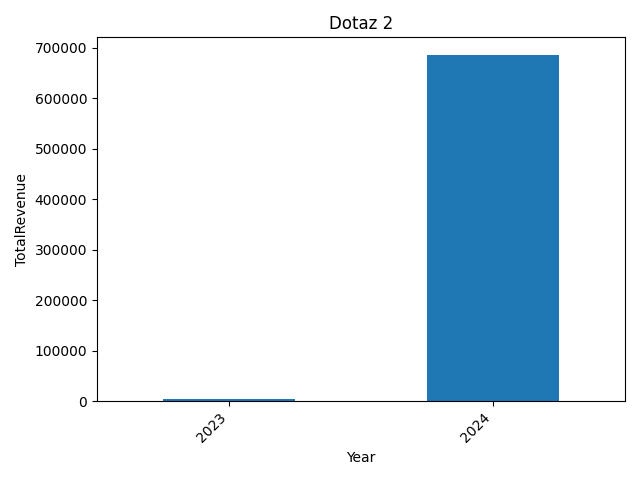
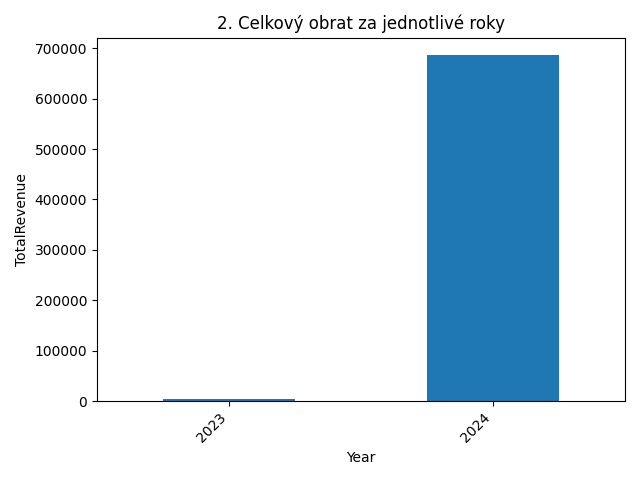
Cleaning

Changed region(s): [[0.1562, 0.0312, 0.9688, 0.0938], [0.0625, 0.2812, 0.125, 0.3438], [0.0625, 0.0938, 0.125, 0.125]]

diff --git a/python/graphs.py b/python/graphs.py
@@ -32,7 +32,14 @@ for i, query in enumerate(queries, start=1):
 
         # === GRAF ===
         plt.figure()
-        title = f"Dotaz {i}"
+        with open(f"olap_vystupy/dotaz_{i}.txt", encoding="utf-8") as f:
+            lines = f.readlines()
+            title = lines[1]
+            if title.startswith("-- "):
+                title = title[3:]
+            title = title.strip()
+
+            
 
         # Pokud má 2 sloupce a 1 je textový, udělej bar plot
         if df.shape[1] == 2:
@@ -40,7 +47,7 @@ for i, query in enumerate(queries, start=1):
             if pd.api.types.is_string_dtype(df[x]) or pd.api.types.is_categorical_dtype(df[x]):
                 df.plot(kind="bar", x=x, y=y, legend=False)
                 plt.title(title)
-                plt.xlabel(x)
+                plt.xlabel("Year")
                 plt.ylabel(y)
                 plt.xticks(rotation=45, ha='right')
                 plt.tight_layout()
@@ -55,24 +62,26 @@ for i, query in enumerate(queries, start=1):
             y = df.columns.difference(["Year", "Month", "Date"])[0]
             df.plot(x="Date", y=y, kind="line", marker="o", legend=False)
             plt.title(title)
-            plt.xlabel("Datum")
+            plt.xlabel("Month")
             plt.ylabel(y)
             plt.tight_layout()
             plt.savefig(os.path.join(plot_dir, f"dotaz_{i}.png"))
             plt.close()
             continue
 
-        # Pokud má Year a Quarter
         if set(["Year", "Quarter"]).issubset(df.columns):
-            df["Label"] = df["Year"].astype(str) + " Q" + df["Quarter"].astype(str)
+            df["Label"] = df["Year"].astype(int).astype(str) + " Q" + df["Quarter"].astype(int).astype(str)
             y = df.columns.difference(["Year", "Quarter", "Label"])[0]
             df.plot(kind="bar", x="Label", y=y, legend=False)
             plt.title(title)
+            plt.xlabel("Quarter")
+            plt.ylabel(y)
             plt.xticks(rotation=45, ha='right')
             plt.tight_layout()
             plt.savefig(os.path.join(plot_dir, f"dotaz_{i}.png"))
             plt.close()
             continue
+
 
         # Jinak graf přeskoč
         print(f"[i] Dotaz {i}: není automaticky vizualizován.")
